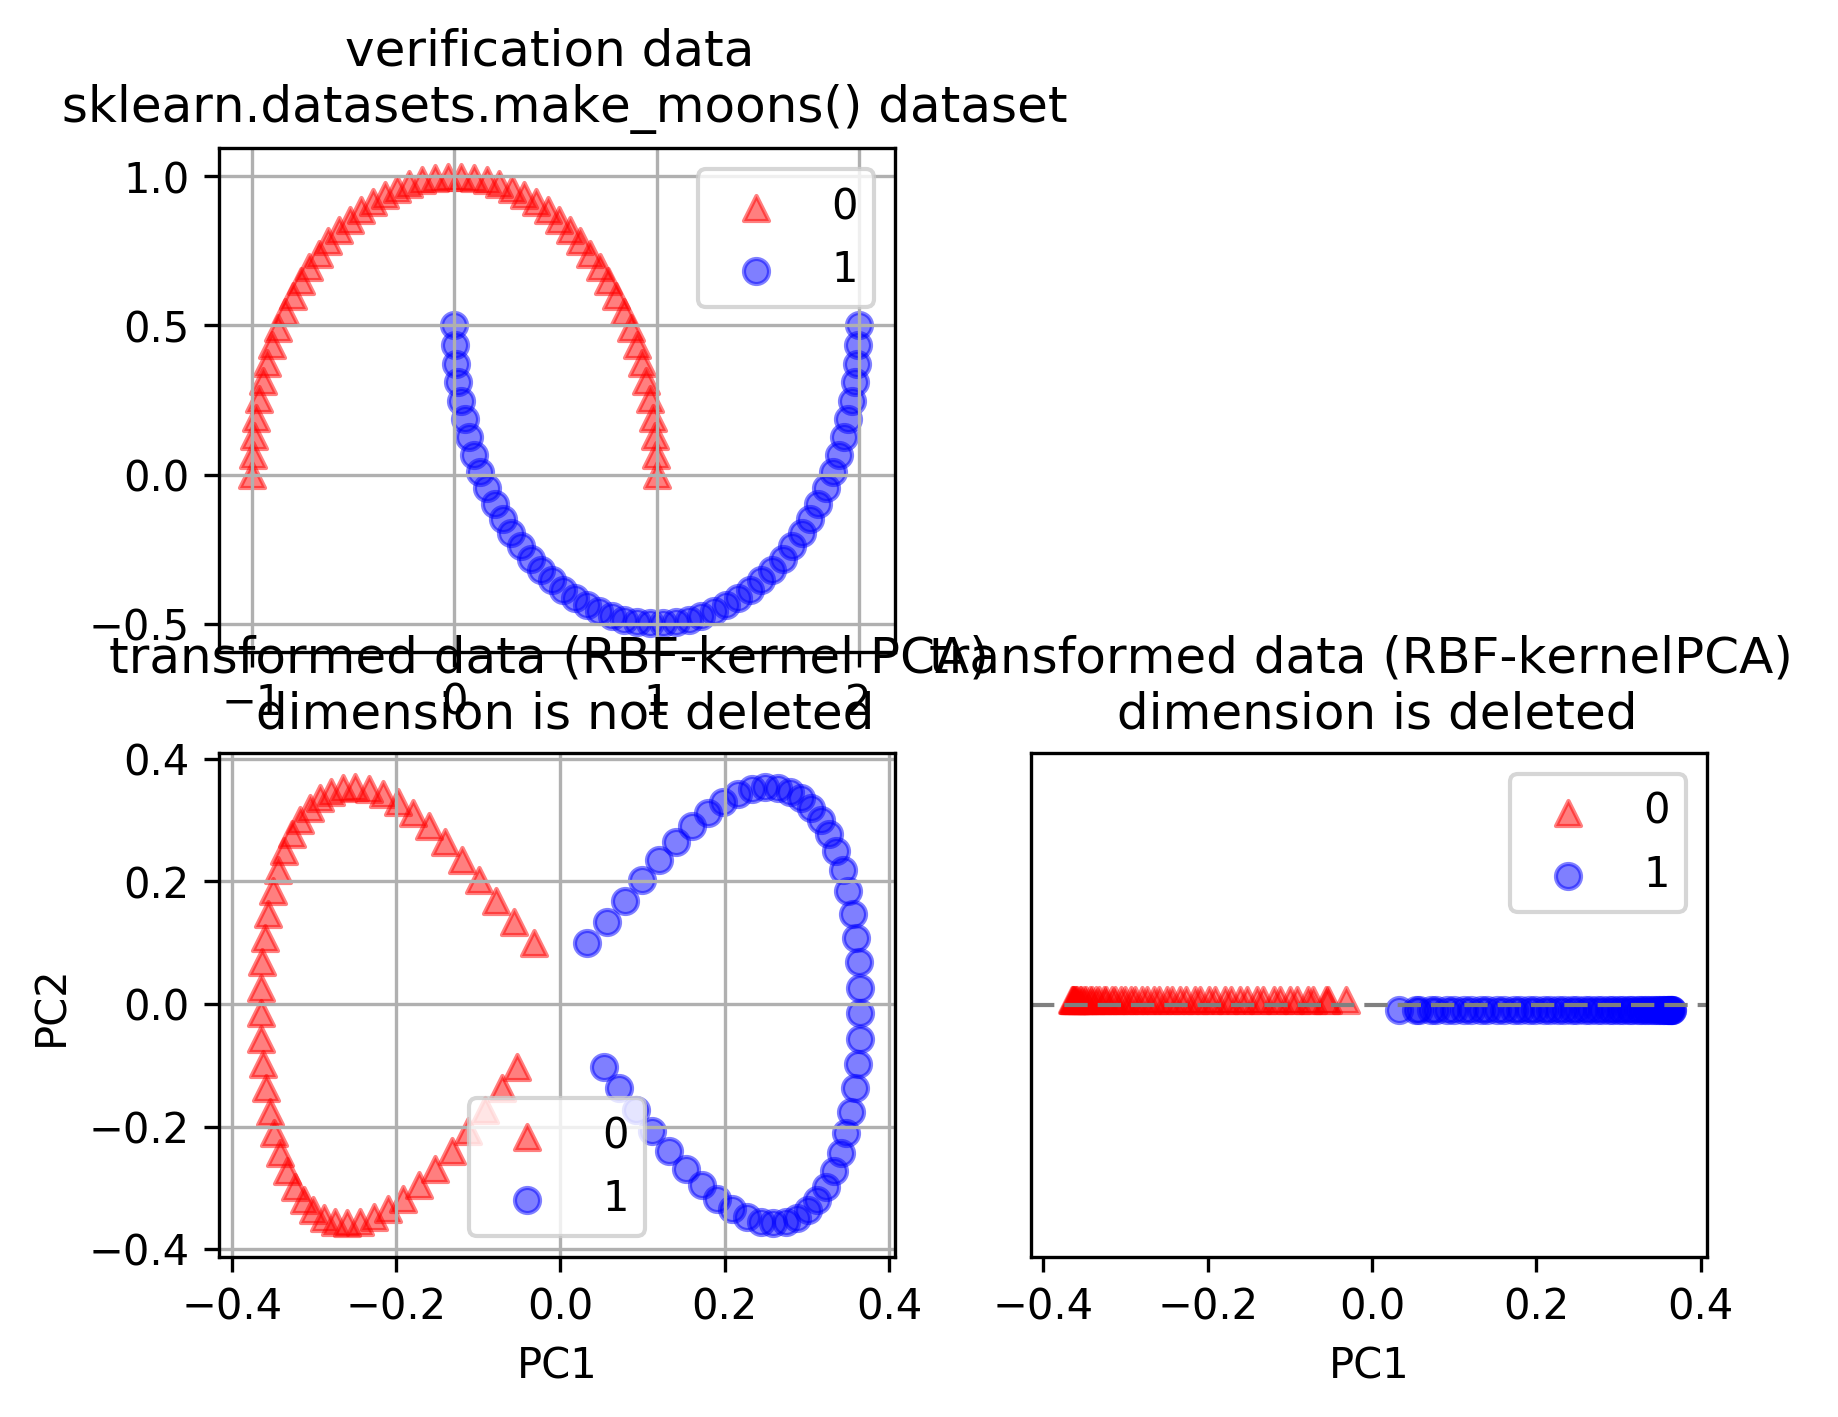
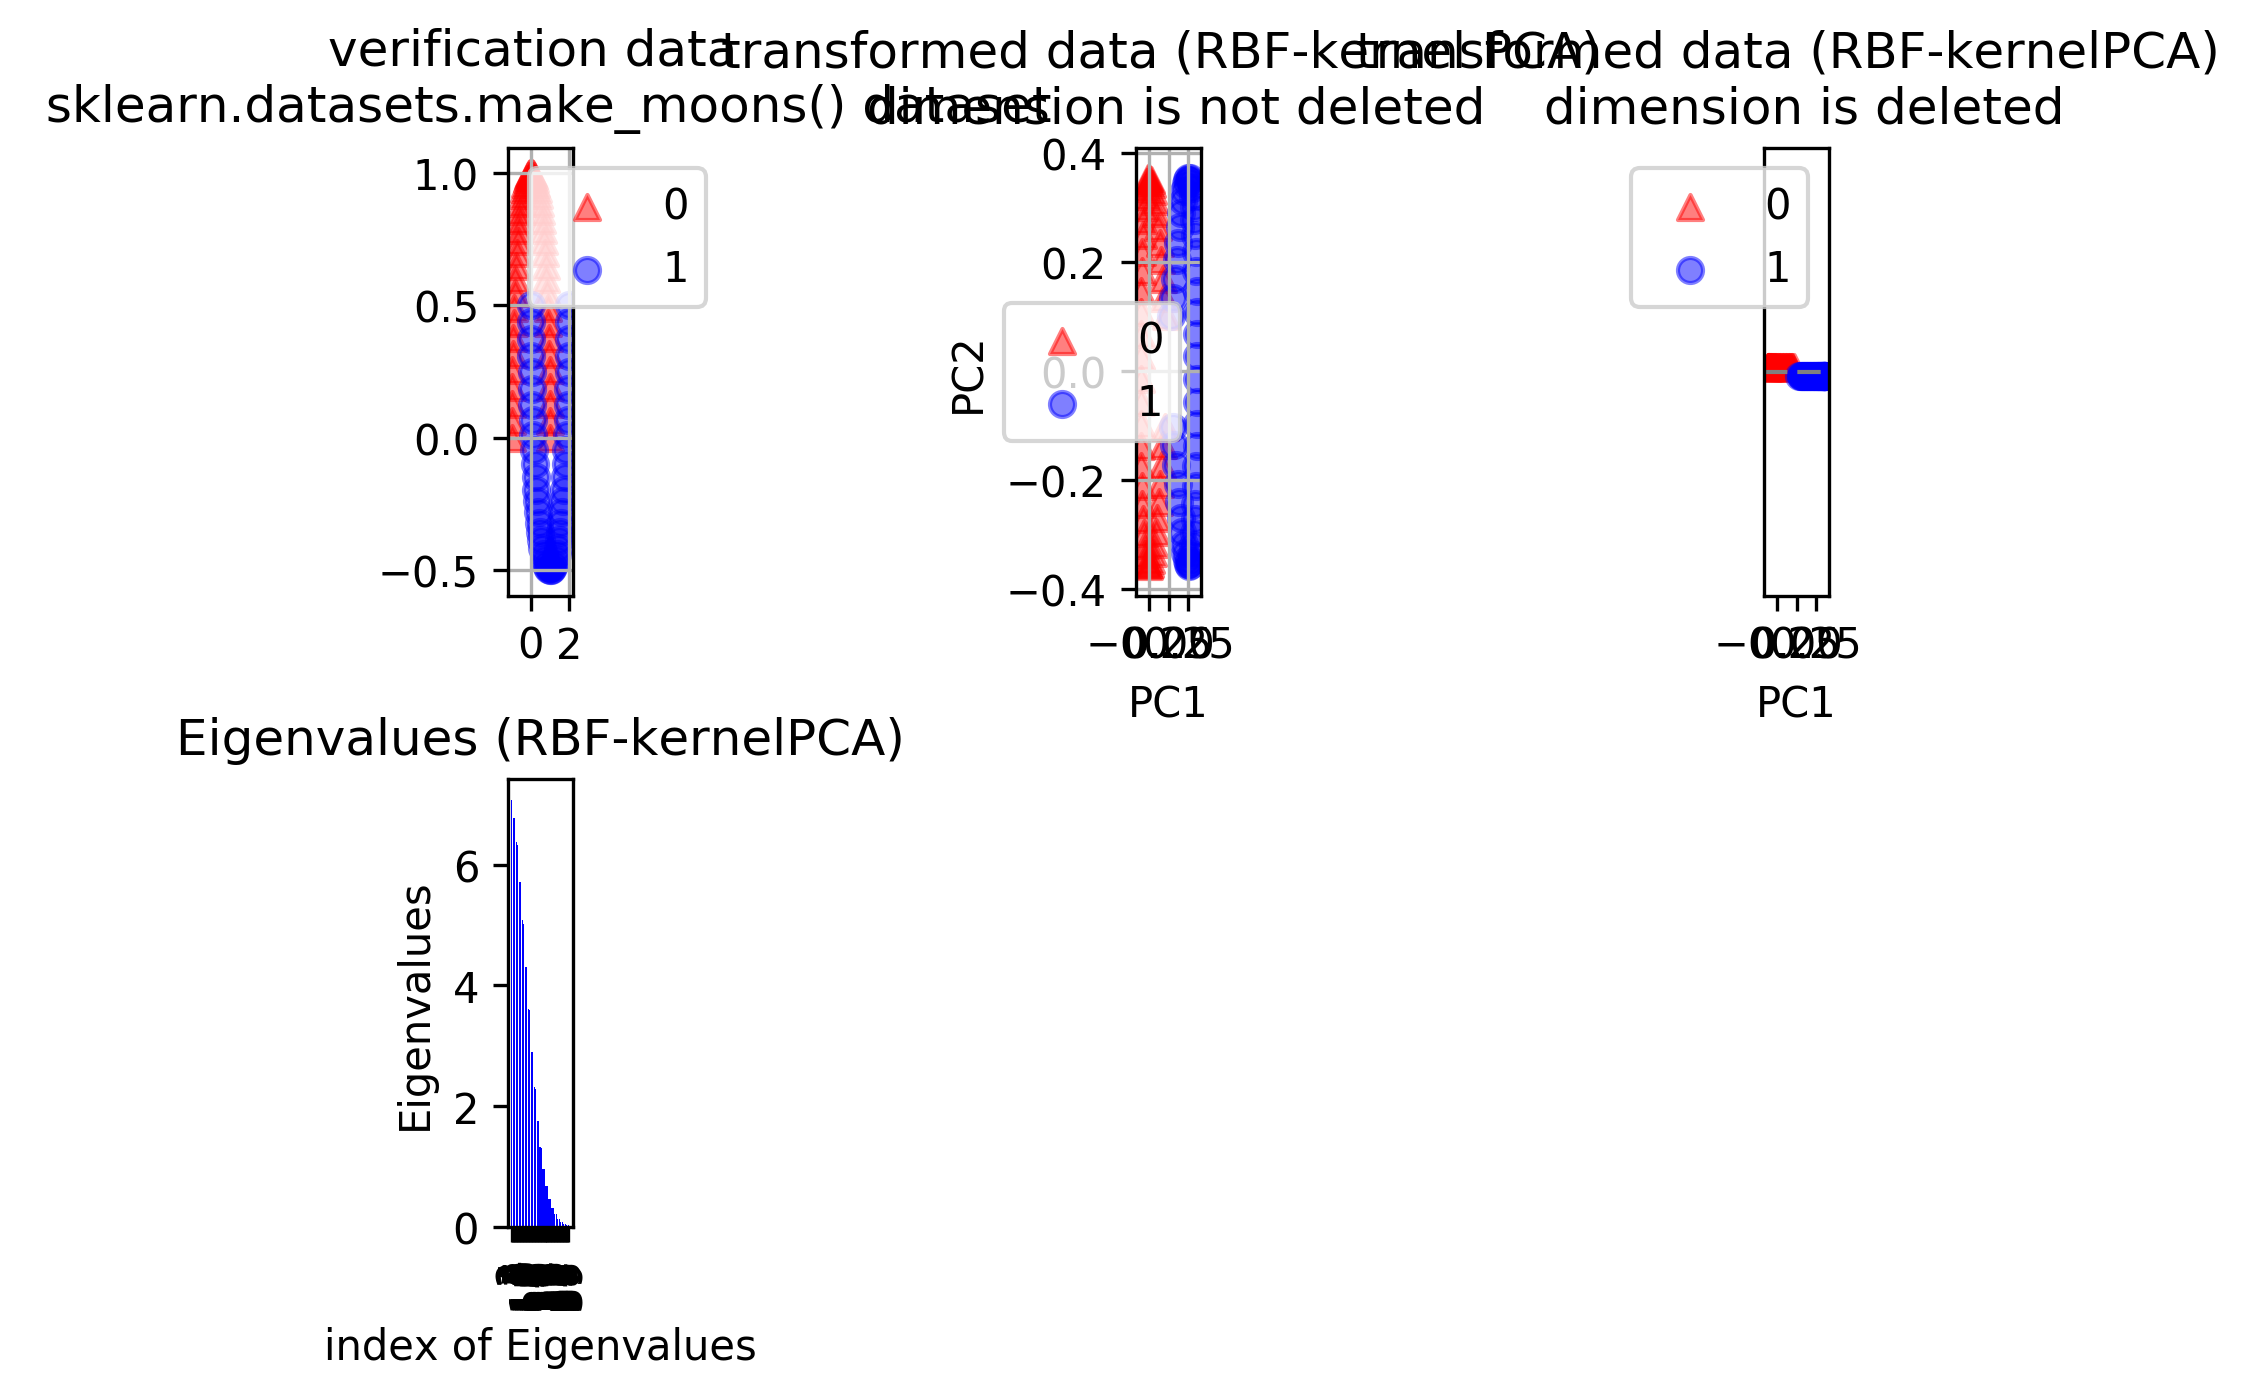
Add files via upload

diff --git a/kernelPCA_scikit-learn/README.md b/kernelPCA_scikit-learn/README.md
@@ -10,12 +10,15 @@
 
 上段の図より、通常の PCA では、うまく線形分離可能なテータに変換できていないことが分かる。（※下段の図は、各主成分に対する固有値と寄与率、累積率寄与率の図）尚、第１主成分 PC1 のみに次元削除（特徴抽出）した図は、各クラス（0 or 1）の識別を見やすくするため、上下に少し移動させている。
 
-![kernelpca_scikit-learn_1](https://user-images.githubusercontent.com/25688193/29361298-eef3455a-82c1-11e7-8329-04792751bf7e.png)
+![kernelpca_scikit-learn_1](https://user-images.githubusercontent.com/25688193/29363412-e2cbf200-82ca-11e7-97b9-7ac3edce6383.png)
 
 `sklearn.datasets.make_moons( n_samples = 100 )` で生成した半月状のデータ（サンプル数：１００個）に対し、RBF カーネルをカーネル関数とする、カーネル PCA を適用した結果。
-RBFカーネルをカーネルとするkernelPCA では、この半月状のデータをうまく線形分離可能な特徴空間に写像出来ていることが分かる。（尚、第１主成分 PC1 のみに次元削除（特徴抽出）した図は、各クラス（0 or 1）の識別を見やすくするため、上下に少し移動させている。）
+上段の図より、RBFカーネルをカーネルとするkernelPCA では、この半月状のデータをうまく線形分離可能な特徴空間に写像出来ていることが分かる。（尚、第１主成分 PC1 のみに次元削除（特徴抽出）した図は、各クラス（0 or 1）の識別を見やすくするため、上下に少し移動させている。）
 
-![kernelpca_scikit-learn_2](https://user-images.githubusercontent.com/25688193/29361299-f106740c-82c1-11e7-9596-74a0c7da535a.png)
+下段の図は、RBFカーネル関数のカーネル行列（グラム行列）の固有値を、大きい順に 40 個表示した図。カーネル行列の固有値は固有値分解を近似的な数値解析的手法で解いており、0 に近い値の固有値がこれに続いている。
+
+![kernelpca_scikit-learn_2](https://user-images.githubusercontent.com/25688193/29363414-e47126c0-82ca-11e7-8931-10472ac76627.png)
+
 
 
 ## Theory
